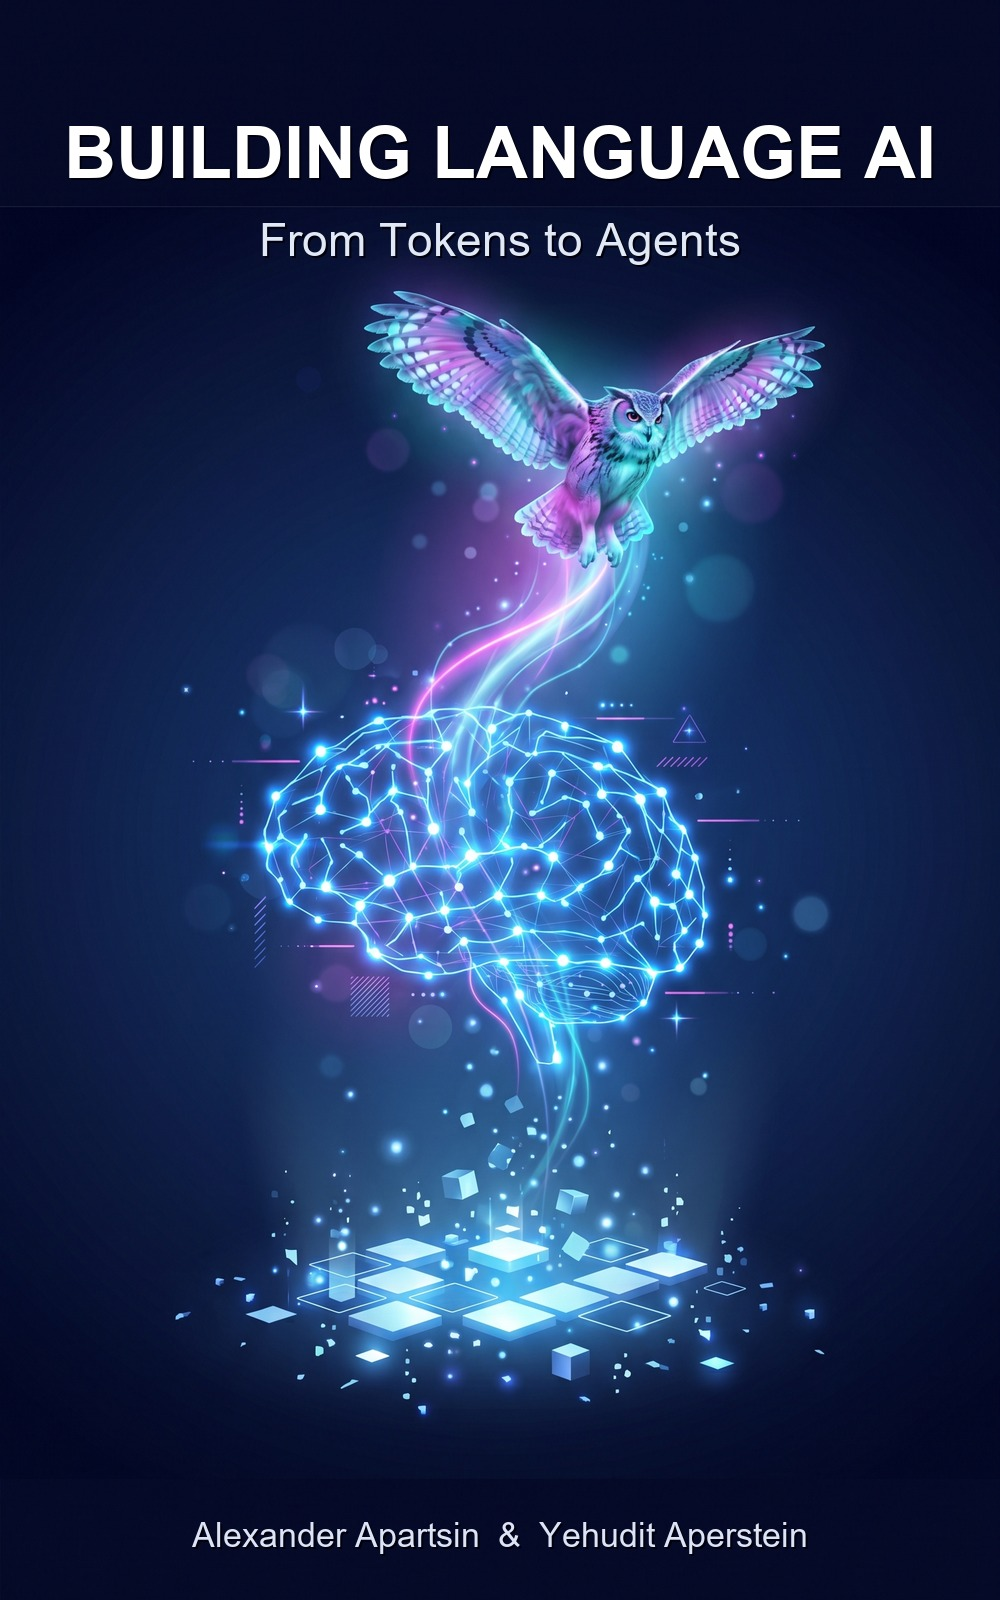
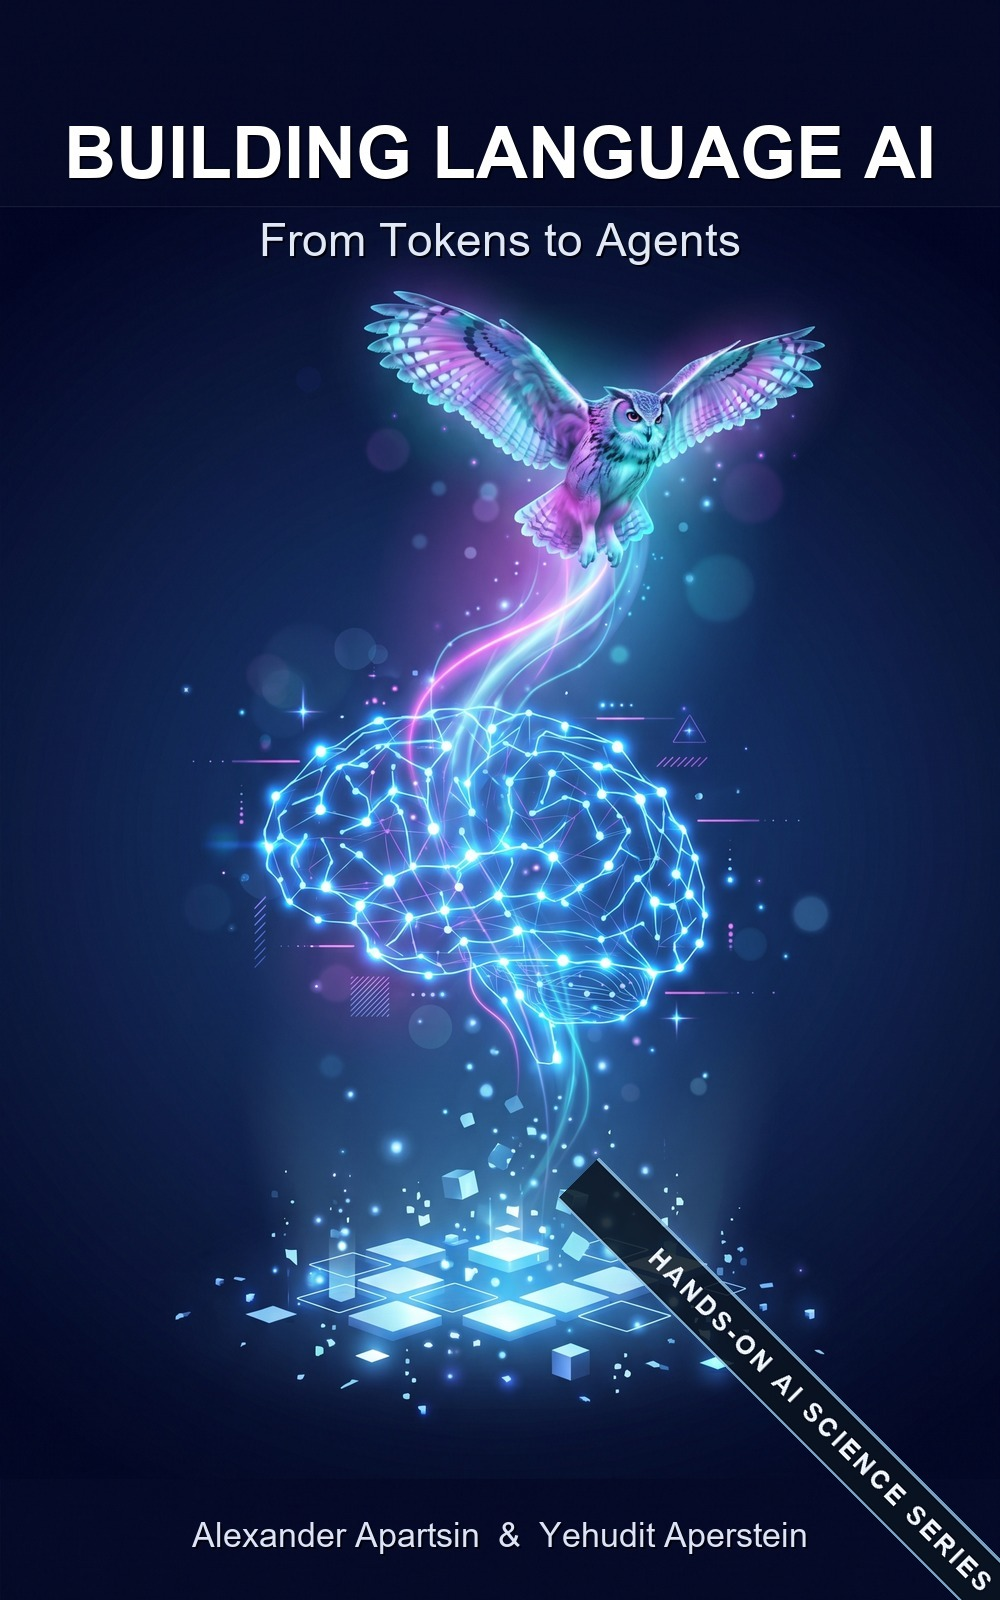
Join the Hands-On AI Science series: cover badge, landing block, front matter
Add the "Hands-On AI Science Series" corner-ribbon stamp to the cover image
(original preserved at images/book-cover.preseries.jpg). Add a "The Hands-On
AI Science Series" section to the landing page with the series blurb and the
four sibling books (site + Kindle links, this book marked "you are here").
Add front-matter/about-the-series.html with the full series motivation and
book list, linked from the table of contents.

Changed region(s): [[0.558, 0.7188, 0.992, 1.0]]

diff --git a/front-matter/about-the-series.html b/front-matter/about-the-series.html
@@ -1,0 +1,63 @@
+<!DOCTYPE html>
+
+<html lang="en">
+<head>
+<meta charset="utf-8"/>
+<!-- Google tag (gtag.js) -->
+<script async src="https://www.googletagmanager.com/gtag/js?id=G-PWPHBQL2VL"></script>
+<script>
+window.dataLayer = window.dataLayer || [];
+function gtag(){dataLayer.push(arguments);}
+gtag('js', new Date());
+gtag('config', 'G-PWPHBQL2VL');
+</script>
+
+<meta content="width=device-width, initial-scale=1.0" name="viewport"/>
+<meta content="About the Hands-On AI Science Series: deep, build-it-yourself guides to the major fields of artificial intelligence, with the other books in the series." name="description"/>
+<title>About the Hands-On AI Science Series | Building Language AI</title>
+<link href="../styles/book.css" rel="stylesheet"/>
+<script defer="" src="../scripts/book.js"></script>
+<link href="../pagefind/pagefind-ui.css" rel="stylesheet"/>
+<script defer="" src="../pagefind/pagefind-ui.js"></script>
+</head>
+<body>
+<a class="skip-link" href="about-the-series.html#main-content">Skip to main content</a>
+
+<header class="chapter-header">
+<nav class="header-nav">
+<a class="book-title-link" href="../index.html">Building Language AI</a>
+<a class="toc-link" href="../toc.html" title="Table of Contents"><span class="toc-icon">&#9776;</span> Contents</a>
+</nav>
+<div class="header-search">
+<div id="search"></div>
+</div>
+<div class="part-label" data-pagefind-meta="part"><a href="../index.html">Front Matter</a></div>
+<h1>About the Hands-On AI Science Series</h1>
+</header>
+<main class="content" id="main-content">
+<span class="pagefind-meta-injected" data-pagefind-meta="part:Front Matter" hidden=""></span><span class="pagefind-meta-injected" data-pagefind-meta="chapter:Front Matter" hidden=""></span>
+<p><em>Building Language AI</em> is part of <strong>Hands-On AI Science</strong>, a series that pairs serious depth with serious building.</p>
+<p>Most AI books pick a side. Some are reference manuals for an API or a library: handy this year, stale the next, and quiet about why anything works. Others are theory texts you admire but rarely run. Hands-On AI Science was created to be both at once: the science and the build, in one connected story.</p>
+<p>Each book in the series takes a single field of AI and develops it from first principles to the current research frontier. It treats the subject at graduate depth, with a real dive into the theories, models, and internals, and it aims to be complete, placing the classical foundations and the newest approaches side by side. Then it makes you build. Every core idea is implemented in plain Python, first in a small from-scratch version that exposes the mechanism, then with the modern libraries and tools that do the job quickly. That hands-on half is where the series gets its name.</p>
+<div class="callout key-insight">
+<div class="callout-title">Key Insight: What "Hands-On AI Science" promises</div>
+<p>It is hands-on: it shows you how to build things. It is science: it does not stop at the API, and it takes the scientific and philosophical questions behind the models seriously. And it is AI: from the basics through the frontier.</p>
+</div>
+<p>Depth need not be dense. The series explains in plain language and leans on illustrations, analogies, mental models, and step-by-step reasoning, with epigraphs and a light tone that make the books genuinely pleasant to read. Next to the science you will find implementation best practices, rules of thumb, case studies, and the engineering issues that decide whether a method survives contact with real data.</p>
+<p>Each volume is self-contained and structured to support a full undergraduate or graduate course, or a focused seminar on any one of its parts.</p>
+<h2>The Books in the Series</h2>
+<ul>
+<li><strong>Building Language AI</strong>: From Tokens to Agents. <em>You are reading it.</em> <a href="../index.html">llmbook.apartsin.com</a></li>
+<li><strong>Building Vision AI</strong>: From Pixels to Generative Models. <a href="https://visionbook.apartsin.com" rel="noopener" target="_blank">visionbook.apartsin.com</a> · <a href="https://www.amazon.com/dp/B0H5BT8Y75" rel="noopener" target="_blank">Kindle</a></li>
+<li><strong>Building Temporal AI</strong>: From Forecasting to Sequential Decision Making. <a href="https://temporalbook.apartsin.com" rel="noopener" target="_blank">temporalbook.apartsin.com</a> · <a href="https://www.amazon.com/dp/B0H5KRJFCD" rel="noopener" target="_blank">Kindle</a></li>
+<li><strong>Building Scalable AI</strong>: From Big Data Algorithms to Distributed Intelligence. <a href="https://scalablebook.apartsin.com" rel="noopener" target="_blank">scalablebook.apartsin.com</a> · <a href="https://www.amazon.com/s?k=Building+Scalable+AI+Apartsin+Aperstein&amp;i=digital-text" rel="noopener" target="_blank">Kindle</a></li>
+</ul>
+<nav class="chapter-nav">
+<a class="prev" href="../toc.html"><span class="nav-label">Previous</span><span class="nav-num">Book Index</span><span class="nav-title">Table of Contents</span></a>
+<a class="up" href="../toc.html"><span class="nav-label">Up</span><span class="nav-num">Book Index</span><span class="nav-title">Table of Contents</span></a>
+<a class="next" href="../index.html"><span class="nav-label">Next</span><span class="nav-num">Home</span><span class="nav-title">Cover</span></a>
+</nav>
+<footer><p>Sixteenth Edition, 2026 · <a href="../toc.html">Contents</a></p></footer>
+</main>
+</body>
+</html>

diff --git a/index.html b/index.html
@@ -761,6 +761,13 @@ gtag('config', 'G-PWPHBQL2VL');
             .stat-badge { font-size: 0.75rem; padding: 0.45rem 1rem; }
             .hero-desc { font-size: 0.9rem; }
         }
+
+        /* ===== Hands-On AI Science series block ===== */
+        .ms-tile-cur { border-color: rgba(150,200,235,0.5); background: rgba(150,200,235,0.06); }
+        .ms-here { color: rgba(150,200,235,0.85); font-style: italic; }
+        .ms-tile-links { margin-top: 0.6rem; font-size: 0.9rem; color: rgba(220,229,238,0.6); }
+        .ms-tile-links a { color: #aedcf5; border-bottom: 1px solid rgba(150,200,235,0.3); text-decoration: none; }
+        .ms-tile-links a:hover { color: #cfe6fb; border-bottom-color: rgba(150,200,235,0.7); }
     </style>
 <link href="./pagefind/pagefind-ui.css" rel="stylesheet"/>
 <script defer="" src="./pagefind/pagefind-ui.js"></script>
@@ -942,6 +949,50 @@ gtag('config', 'G-PWPHBQL2VL');
 <div class="ms-tile-body">Decision frameworks show where a classical ML pipeline still beats an LLM call, and how to combine the two, so you build the right system rather than the trendy one.</div>
 </div>
 </div>
+</div>
+</section>
+<!-- ============================================================ -->
+<!-- THE HANDS-ON AI SCIENCE SERIES                               -->
+<!-- ============================================================ -->
+<section class="marketing-section" id="series">
+<div class="ms-container">
+<h2 class="ms-h2">The Hands-On AI Science Series</h2>
+<p class="ms-lede">
+        Hands-On AI Science is a series of in-depth guides to the major fields of artificial intelligence.
+        Every book goes deep into the theory, models, and internals, covering the classical foundations
+        and the most recent ideas, then shows you how to build each one in Python with the modern libraries
+        and tools that get the job done. The writing stays plain and light (illustrations, analogies, mental
+        models, worked examples, and a little fun) without trading away rigor or coverage. Each volume is
+        self-contained and complete enough to anchor a full course on its subject.
+    </p>
+<div class="ms-grid">
+<div class="ms-tile ms-tile-cur">
+<div class="ms-tile-tag">Language · <span class="ms-here">You are here</span></div>
+<div class="ms-tile-title">Building Language AI</div>
+<div class="ms-tile-body">From Tokens to Agents.</div>
+</div>
+<div class="ms-tile">
+<div class="ms-tile-tag">Vision</div>
+<div class="ms-tile-title">Building Vision AI</div>
+<div class="ms-tile-body">From Pixels to Generative Models.</div>
+<div class="ms-tile-links"><a href="https://visionbook.apartsin.com" rel="noopener" target="_blank">Read online</a> · <a href="https://www.amazon.com/dp/B0H5BT8Y75" rel="noopener" target="_blank">Kindle</a></div>
+</div>
+<div class="ms-tile">
+<div class="ms-tile-tag">Temporal</div>
+<div class="ms-tile-title">Building Temporal AI</div>
+<div class="ms-tile-body">From Forecasting to Sequential Decision Making.</div>
+<div class="ms-tile-links"><a href="https://temporalbook.apartsin.com" rel="noopener" target="_blank">Read online</a> · <a href="https://www.amazon.com/dp/B0H5KRJFCD" rel="noopener" target="_blank">Kindle</a></div>
+</div>
+<div class="ms-tile">
+<div class="ms-tile-tag">Scalable</div>
+<div class="ms-tile-title">Building Scalable AI</div>
+<div class="ms-tile-body">From Big Data Algorithms to Distributed Intelligence.</div>
+<div class="ms-tile-links"><a href="https://scalablebook.apartsin.com" rel="noopener" target="_blank">Read online</a> · <a href="https://www.amazon.com/s?k=Building+Scalable+AI+Apartsin+Aperstein&amp;i=digital-text" rel="noopener" target="_blank">Kindle</a></div>
+</div>
+</div>
+<div class="ms-pathways-cta">
+        Read the full <a href="front-matter/about-the-series.html">About the Hands-On AI Science Series</a> note.
+    </div>
 </div>
 </section>
 <!-- ============================================================ -->

diff --git a/toc.html b/toc.html
@@ -32,7 +32,7 @@ gtag('config', 'G-PWPHBQL2VL');
 <main id="main-content" class="content toc-main">
 <section class="toc-part toc-front-matter" id="front-matter">
 <header class="toc-part-header">
-<h2 class="toc-part-title"><span class="toc-part-prefix">Front Matter</span> <span class="toc-part-sep">·</span> <a href="front-matter/foreword.html">Why This Book Exists</a></h2><span class="toc-part-count">7 entries</span>
+<h2 class="toc-part-title"><span class="toc-part-prefix">Front Matter</span> <span class="toc-part-sep">·</span> <a href="front-matter/foreword.html">Why This Book Exists</a></h2><span class="toc-part-count">8 entries</span>
 </header>
 <ol class="toc-chapter-list">
 <li class="toc-chapter">
@@ -72,8 +72,14 @@ gtag('config', 'G-PWPHBQL2VL');
 </a>
 </li>
 <li class="toc-chapter">
-<a href="front-matter/copyright.html">
+<a href="front-matter/about-the-series.html">
 <span aria-label="Front Matter 7" class="toc-chapter-num">F7</span>
+<span class="toc-chapter-title">About the Hands-On AI Science Series</span>
+</a>
+</li>
+<li class="toc-chapter">
+<a href="front-matter/copyright.html">
+<span aria-label="Front Matter 8" class="toc-chapter-num">F8</span>
 <span class="toc-chapter-title">Copyright &amp; Legal</span>
 </a>
 </li>
